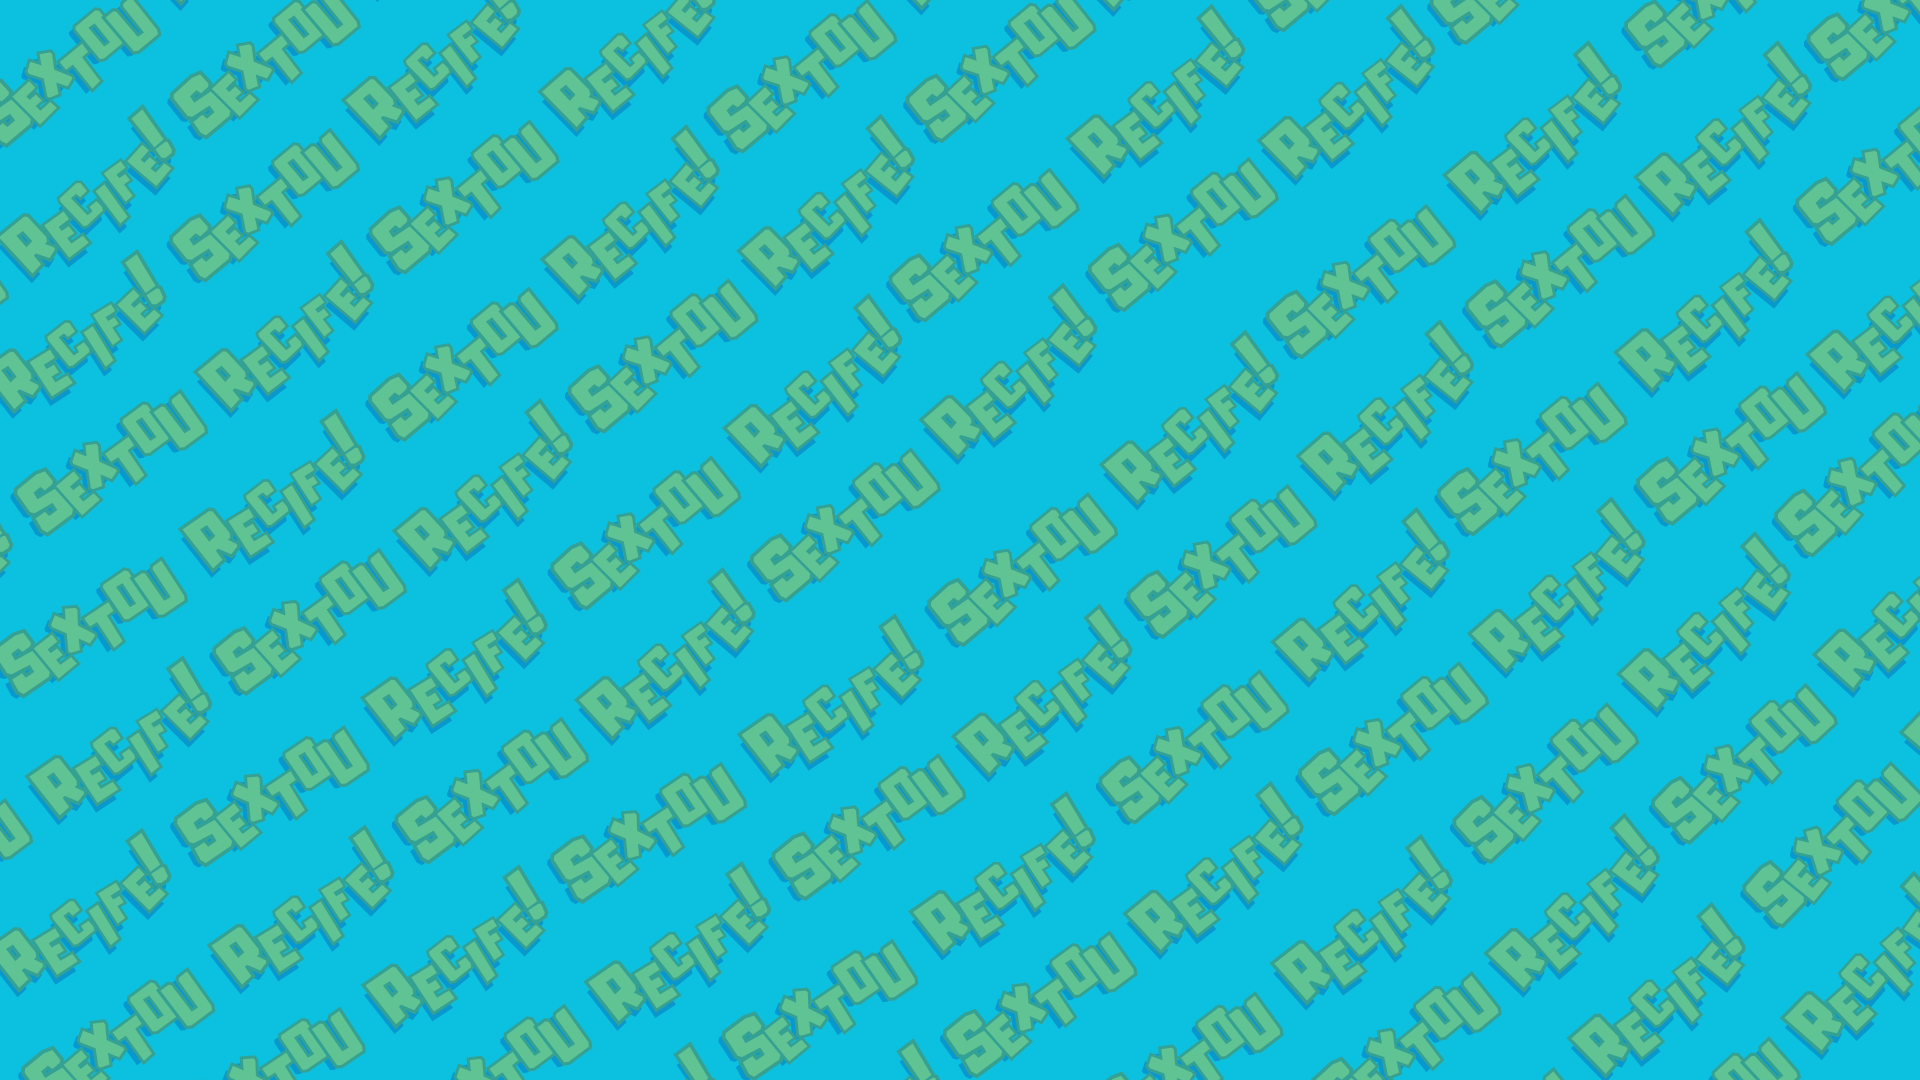
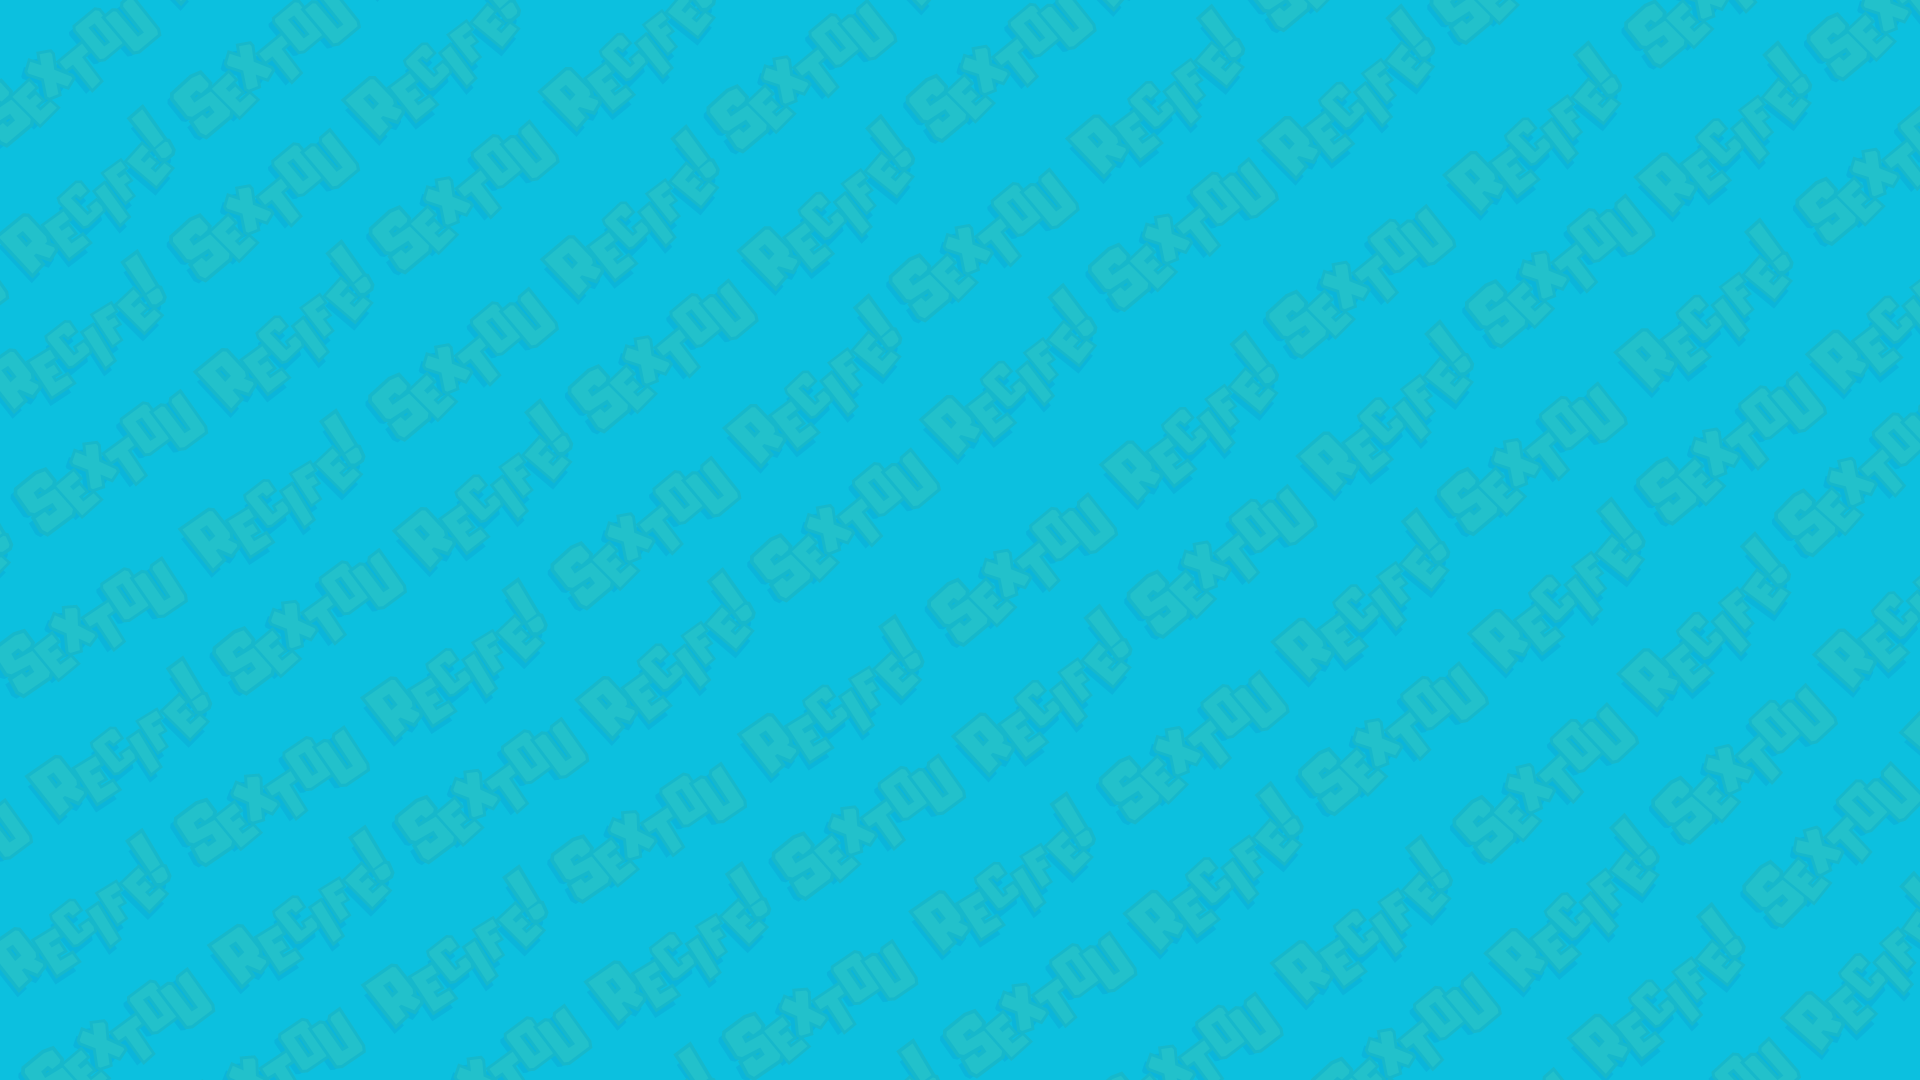
'cls

diff --git a/sextou-recife/src/components/NavBar/navbar.css b/sextou-recife/src/components/NavBar/navbar.css
@@ -1,14 +1,49 @@
-.navbar {
+.styles-navbar {
   position: fixed;
   top: 0;
   width: 100%;
-  background-color: aqua;
+  height: 100px;
   color: white;
-  padding: 10px;
+  display: flex;
   z-index: 1000;
-  /* Garante que a navbar fique acima de outros elementos */
+  background-image: url(/public/background-1.png);
+  font-family: 'Poppins', sans-serif;
+  align-items: center; 
+  justify-content: space-between;
+  padding: 0 150px;
 }
-
+.styles-navbar img {
+  width:120px;
+  margin-top: 20px;
+}
+.styles-navbar nav {
+  display: flex;
+  gap: 80px;
+  align-items: center;
+}
+.styles-navbar nav a {
+  font-weight: bold;
+  text-decoration: none;
+  color: black;
+  font-size: 20px;
+}
+button {
+  background-color: #FFC800;
+  color: black;
+  border: none;
+  padding: 10px 20px;
+  border-radius: 80px;
+  cursor: pointer;
+  font-weight: bold;
+  font-size: 20px;
+  width: 150px;
+  transition: background-color 0.2s ease-in-out, color 0.2s ease-in-out;
+  
+}
+button:hover{
+  background-color:#c69e0e;
+  color: white;
+}
 body {
   margin-top: 50px;
   /* Adicione margem ao conteúdo para que ele não fique escondido atrás da navbar */

diff --git a/sextou-recife/src/components/NavBar/index.jsx b/sextou-recife/src/components/NavBar/index.jsx
@@ -5,22 +5,23 @@
 // import logo from '../NavBar/img/logo-sextou-recife.png';
 
 import "./navbar.css";
+{/*import Logo from './public/sextou-recife-logo.svg'*/}
 
 function Navbar() {
     return (
         // Anteriromente aqui, você estava chamando <Navbar> ou seja, chamando o próprio componente dentro do componente
         // o correto é usar uma div e não chamar o proprio componente
-        <div className="styles.header">
+        <div className="styles-navbar">
             <span>
                 {/* Arrume a importação da imagem para poder adicionar aqui */}
-                {/* <img src={logo} alt="logo-sextou-recife.png" /> */}
+                <img src="/public/Sextou-logo.png" alt="Logo" href="#"/>
             </span>
             <nav>
                 <a href="">Mapa</a>
                 <a href="">Eventos</a>
                 <a href="">Parceiros</a>
-                <a href="">Contato</a>
             </nav>
+            <button>Contato</button>
         </div>
     );
 }
